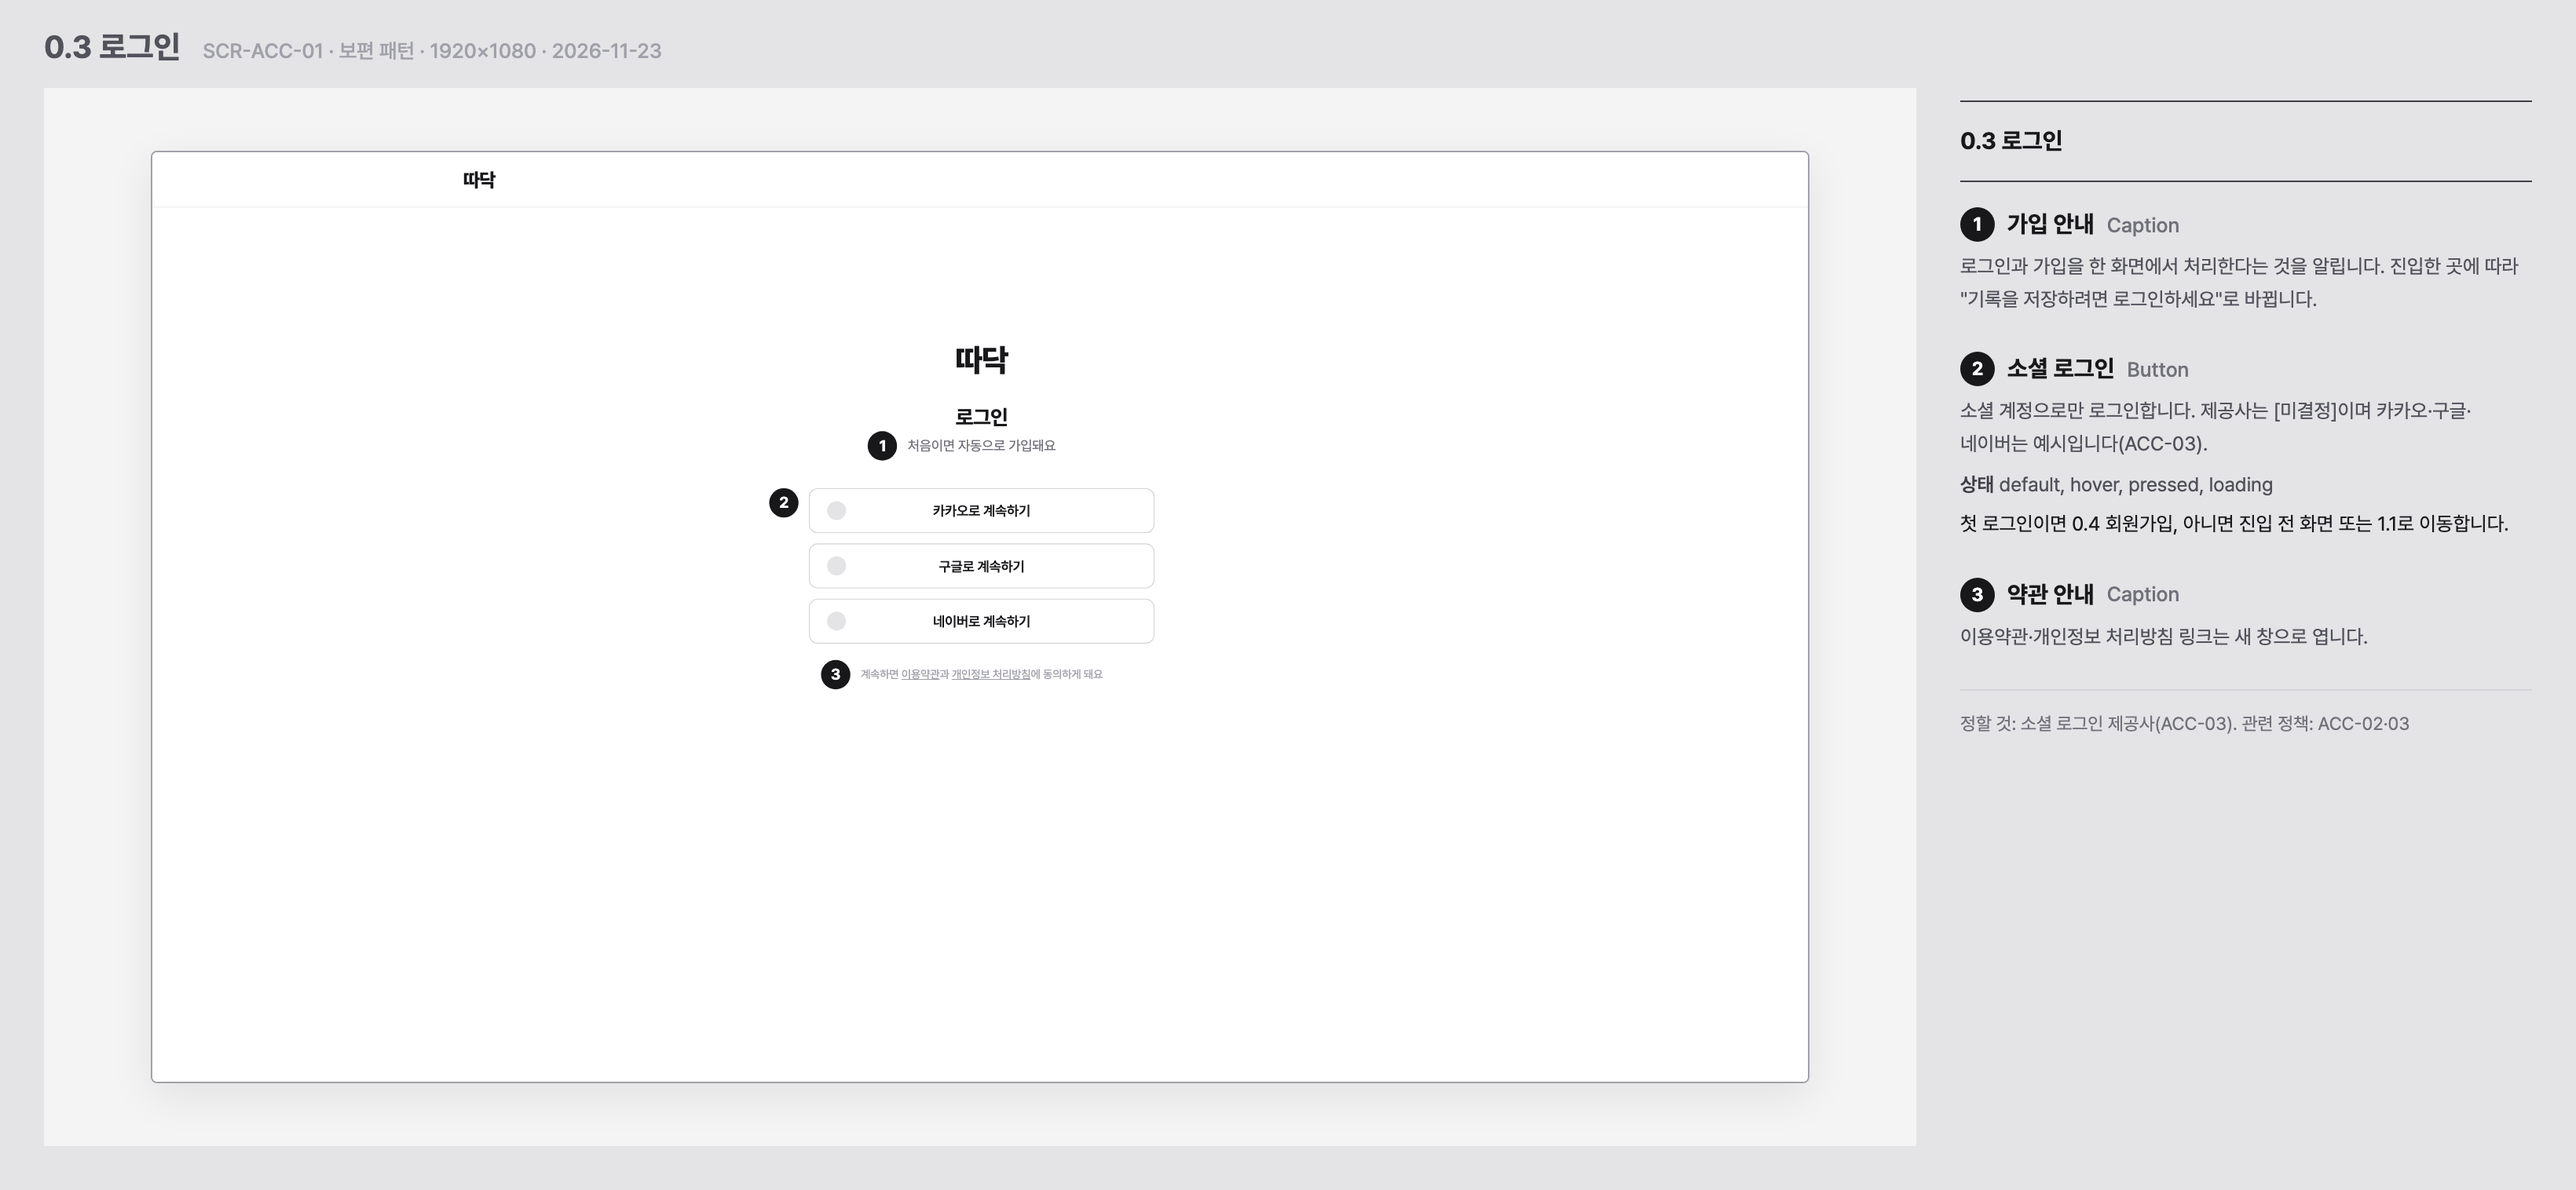
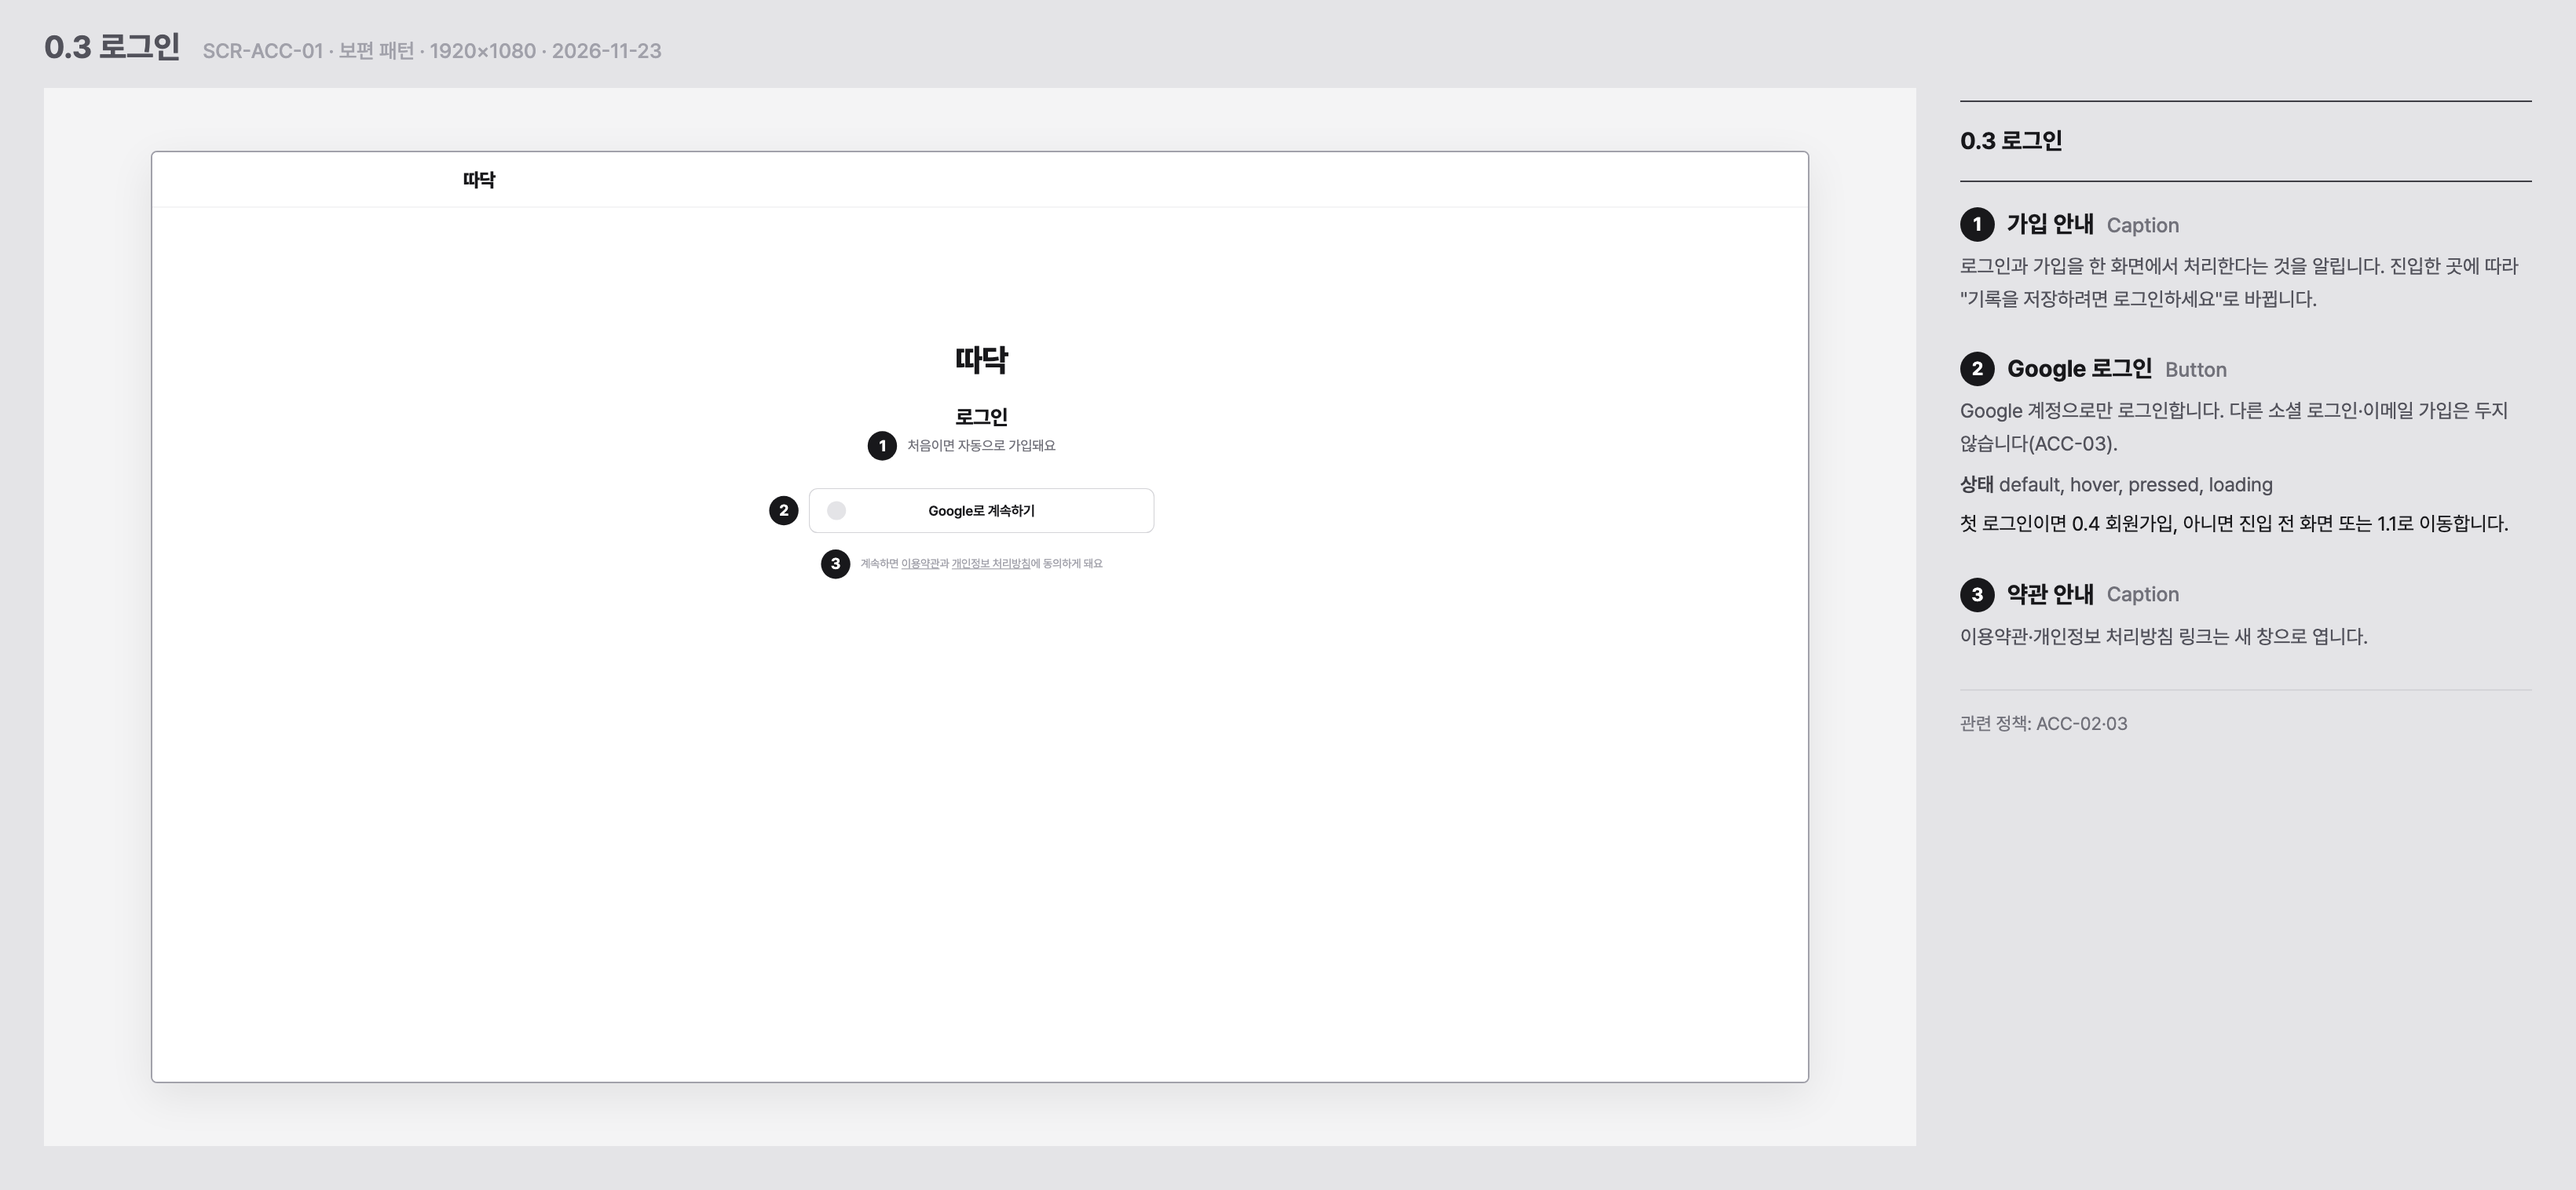
ACC-03 확정: 로그인은 Google만, 0.3·0.4·0.5 화면 설계서 반영

diff --git a/docs/screens/account.md b/docs/screens/account.md
@@ -8,13 +8,13 @@
 
 <div class="todo-box">
 <p class="todo-title">이 페이지에서 할 일</p>
-<ol><li>(PD) 로그인·회원가입·설정 참고 서비스를 정리해 주세요(ACC-02).</li><li>(전원) 소셜 로그인 제공사(ACC-03)와 회원가입 입력 항목(ACC-04)에 의견을 남겨 주세요.</li></ol>
+<ol><li>(PD) 로그인·회원가입·설정 참고 서비스를 정리해 주세요(ACC-02).</li><li>(전원) 회원가입 입력 항목(ACC-04)에 의견을 남겨 주세요.</li></ol>
 <p class="todo-foot">확인한 뒤 <a href="https://github.com/soohy00/ttadak-wiki/issues/new?title=%5B%EA%B3%84%EC%A0%95%C2%B7%EC%84%A4%EC%A0%95%20%ED%99%94%EB%A9%B4%5D%20" target="_blank">의견 남기기</a>로 남겨 주세요. 질문·피드백 방법은 4차 회의에서 확정해요.</p>
 </div>
 
 ## 사용자 흐름
 
-1. 0.3 로그인에서 소셜 계정으로 로그인한다. 처음이면 0.4 회원가입(닉네임·약관 동의)을 거친다.
+1. 0.3 로그인에서 Google 계정으로 로그인한다. 처음이면 0.4 회원가입(닉네임·약관 동의)을 거친다.
 2. 로그인 후 상단 바 프로필에서 0.5 설정으로 간다.
 
 - 로그인·회원가입·설정은 [세부 경험 결정 원칙](../product/principles)에 따라 보편 패턴을 따릅니다. 참고 서비스는 PD가 정리해 붙입니다(ACC-02).
@@ -26,11 +26,11 @@
 
 <ol class="mk-list">
 <li><b>가입 안내</b><span class="kind">Caption</span>: 로그인과 가입을 한 화면에서 처리한다는 것을 알립니다. 진입한 곳에 따라 "기록을 저장하려면 로그인하세요"로 바뀝니다.</li>
-<li><b>소셜 로그인</b><span class="kind">Button</span>: 소셜 계정으로만 로그인합니다. 제공사는 [미결정]이며 카카오·구글·네이버는 예시입니다(ACC-03).<ul><li>상태: default, hover, pressed, loading</li><li>→ 첫 로그인이면 0.4 회원가입, 아니면 진입 전 화면 또는 1.1로 이동합니다.</li></ul></li>
+<li><b>Google 로그인</b><span class="kind">Button</span>: Google 계정으로만 로그인합니다. 다른 소셜 로그인·이메일 가입은 두지 않습니다(ACC-03).<ul><li>상태: default, hover, pressed, loading</li><li>→ 첫 로그인이면 0.4 회원가입, 아니면 진입 전 화면 또는 1.1로 이동합니다.</li></ul></li>
 <li><b>약관 안내</b><span class="kind">Caption</span>: 이용약관·개인정보 처리방침 링크는 새 창으로 엽니다.</li>
 </ol>
 
-<p class="mk-note">정할 것: 소셜 로그인 제공사(ACC-03). 관련 정책: ACC-02·03</p>
+<p class="mk-note">관련 정책: ACC-02·03</p>
 
 ## 0.4 회원가입 · SCR-ACC-01
 
@@ -38,7 +38,7 @@
 <p class="wf-cap">1920×1080 화면. 번호별 설명은 아래에 있어요. 이미지를 누르면 크게 열려요.</p>
 
 <ol class="mk-list">
-<li><b>닉네임</b><span class="kind">Text Field</span>: 소셜 계정 이름으로 자동 입력됩니다. 2–12자 [기준: ?]<ul><li>상태: default, focus, filled, error</li></ul></li>
+<li><b>닉네임</b><span class="kind">Text Field</span>: Google 계정 이름으로 자동 입력됩니다. 2–12자 [기준: ?]<ul><li>상태: default, focus, filled, error</li></ul></li>
 <li><b>약관 동의</b><span class="kind">Checkbox</span>: 전체 동의를 누르면 모두 선택됩니다. 하나라도 끄면 전체 동의가 해제됩니다. [보기]는 전문을 모달로 엽니다.</li>
 <li><b>시작하기</b><span class="kind">Button</span>: [필수] 2개에 동의하기 전에는 disabled입니다.<ul><li>상태: disabled, default, hover, pressed, loading</li><li>→ 클릭할 경우 가입을 마치고 1.1.2 내 자료(빈 화면)로 이동합니다.</li></ul></li>
 </ol>
@@ -52,7 +52,7 @@
 
 <ol class="mk-list">
 <li><b>설정 메뉴</b><span class="kind">Tab</span>: 계정 / 서비스 정보. 진입 시 계정이 선택된 상태입니다.<ul><li>상태: default, selected</li></ul></li>
-<li><b>로그인 방식</b><span class="kind">Text</span>: 가입한 소셜 제공사입니다. 바꿀 수 없습니다.</li>
+<li><b>로그인 방식</b><span class="kind">Text</span>: Google입니다. 바꿀 수 없습니다.</li>
 <li><b>닉네임 저장</b><span class="kind">Button</span>: 바꾼 내용이 없으면 disabled입니다.<ul><li>→ 저장되면 "닉네임을 바꿨어요" 토스트를 노출합니다.</li></ul></li>
 <li><b>로그아웃</b><span class="kind">Button</span>: 상태: default, hover, pressed<ul><li>→ 클릭할 경우 0.1 시작 화면으로 이동합니다.</li></ul></li>
 <li><b>회원 탈퇴</b><span class="kind">Text Button</span>: 눈에 덜 띄게 둡니다.<ul><li>→ "자료와 필사 기록이 모두 지워져요" 모달을 거쳐 탈퇴 후 0.1로 이동합니다.</li></ul></li>

diff --git a/docs/policy/account.md b/docs/policy/account.md
@@ -8,7 +8,7 @@
 
 <div class="todo-box">
 <p class="todo-title">이 페이지에서 할 일</p>
-<ol><li>(전원) 미결정 ACC-03–05에 의견을 남겨 주세요.</li></ol>
+<ol><li>(전원) 미결정 ACC-04–05에 의견을 남겨 주세요.</li></ol>
 <p class="todo-foot">확인한 뒤 <a href="https://github.com/soohy00/ttadak-wiki/issues/new?title=%5BACC%20%EA%B3%84%EC%A0%95%C2%B7%EC%84%A4%EC%A0%95%20%EC%A0%95%EC%B1%85%5D%20" target="_blank">의견 남기기</a>로 남겨 주세요. 질문·피드백 방법은 4차 회의에서 확정해요.</p>
 </div>
 
@@ -24,6 +24,7 @@
 
 - **ACC-01** 로그인하지 않아도 샘플 세트로 서비스를 체험할 수 있다. (2차 회의)
 - **ACC-02** 로그인·회원가입·유저 설정은 보편적인 방식을 따른다. (3차 회의 결정 원칙)
+- **ACC-03** 로그인은 Google 하나만 둔다. 다른 소셜 로그인과 이메일 가입은 두지 않는다. (11/24 PM 결정)
 
 </div>
 
@@ -31,7 +32,6 @@
 
 <div class="policy">
 
-- **ACC-03** 소셜 로그인 제공사
 - **ACC-04** 회원가입 단계와 입력 항목 (PD 참고 서비스 정리 후 작성)
 - **ACC-05** 유저 설정 메뉴 구성 (PD 참고 서비스 정리 후 작성)
 
@@ -42,3 +42,4 @@
 | 날짜 | 내용 |
 | --- | --- |
 | 2026-11-21 | 작성 |
+| 2026-11-24 | ACC-03 확정(로그인은 Google만) |

diff --git a/docs/guide/changelog.md b/docs/guide/changelog.md
@@ -16,3 +16,4 @@
 | 2026-11-23(월) | 자료 넣기 화면(2.1.1·2.1.2) 다시 그림: 세그먼트 탭, 문구 최소화, 번호를 레이아웃 밖으로. UPL-06 수정(PPT·hwp 안내는 올렸을 때만) |
 | 2026-11-23(월) | 위키 화면 개편: 사이드바를 왼쪽 끝에 붙이고 본문을 넓힘, 글자 크기와 "이 페이지 목차"를 줄임. 화면 설계서를 화면 이미지 + 번호 목록으로 바꿈. 페이지마다 맨 위에 "이 페이지에서 할 일"과 의견 남기기 링크 추가 |
 | 2026-11-23(월) | 화면 설계서 24장을 자료 넣기와 같은 완성도로 다시 그림(2.2·3·4·0·1). 2.2를 2.2.1 파일 선택됨·2.2.2 오류로 나눔. 화면 설계 기준에 "8. 화면 문구" 추가 |
+| 2026-11-24(화) | 계정 정책 ACC-03 확정(로그인은 Google만, 다른 소셜 로그인·이메일 가입 없음). 0.3 로그인·0.4 회원가입·0.5 설정 화면 설계서 반영 |

diff --git a/docs/product/principles.md b/docs/product/principles.md
@@ -11,7 +11,7 @@ PM 초안입니다. 4차 회의(11/24(화))에서 확정합니다.
 
 | 경험 | 정할 내용 | 보편 패턴 | 진행 방식 |
 | --- | --- | --- | --- |
-| 로그인 플랫폼 | 소셜 로그인 제공사 | 있음 | 보편 패턴 따름 |
+| 로그인 플랫폼 | 소셜 로그인 제공사 | 있음 | 확정: Google만(ACC-03) |
 | 로그인·회원가입 과정 | 단계, 입력 항목 | 있음 | 보편 패턴 따름 |
 | 유저 설정 | 메뉴 구성 | 있음 | 보편 패턴 따름 |
 | 페이지 구성·내비게이션 | 탭바 / 사이드바 / 상단 내비게이션 | 일부 있음 | 웹 기준 확인 후, 갈리면 시안·투표 |
